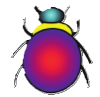
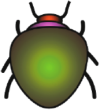
task1. module pygame

diff --git a/modules/pygame/task1/task1.py b/modules/pygame/task1/task1.py
@@ -1,29 +1,7 @@
 import pygame as pg
 from math import *
 import random
-
-
-class Player(pg.sprite.Sprite):
-    def __init__(self, x_pos=0, y_pos=0):
-        super().__init__()
-        self.image = pg.image.load("insect1.png")
-        self.x, self.y = x_pos, y_pos
-        self.bild = self.image
-
-    def rotate(self, degree):
-        self.bild = pg.transform.rotate(self.image, degree)
-
-    def move(self, distance, xx, yy):
-        self.x += xx
-        self.y += yy
-        distance -= 1
-        return distance
-
-    def step(self, xx, yy):
-        self.x += xx
-        self.y += yy
-
-
+from bplayer import *
 
 # setting initial values
 green = (0, 255, 0)
@@ -35,6 +13,7 @@ degree = 0
 # launching Pygame, creating a game field and character
 pg.init()
 pg.key.set_repeat(20, 20)
+pg.display.set_caption("Bug Game")
 window = pg.display.set_mode((x_max, y_max))
 figure = Player(x_max / 2 - 50, y_max / 2 - 50)
 
@@ -55,53 +34,27 @@ while running:
         # setting the mouse
         if event.type == pg.MOUSEBUTTONDOWN:
             (x_pos, y_pos) = pg.mouse.get_pos()
-            # x_dif = x_pos - figure.x - 50
-            # y_dif = y_pos - figure.y - 50
-            # distance = sqrt(x_dif * x_dif + y_dif * y_dif)
-            # degree = atan2(-y_dif, x_dif)
-            # degree = degrees(degree) - 90
-            # x_dif /= distance
-            # y_dif /= distance
-            # figure.rotate(degree)
+            if x_pos > figure.x and x_pos < figure.x + 100 \
+                and y_pos > figure.y and y_pos < figure.y + 100:
+                figure.destroy()
 
     # restriction of movement
     if figure.x < 0 or figure.x > x_max - 110:
         x_step = -x_step
     if figure.y < 0 or figure.y > y_max - 110:
         y_step = -y_step
+
     # determining the direction of movement
     degree = atan2(-y_step, x_step)
     degree = degrees(degree) - 90
     figure.rotate(degree)
-    # motion delay
-    figure.step(x_step, y_step)
-    pg.time.delay(10)
-
-        # setting the keys
-        # if event.type == pg.KEYDOWN:
-        #     if event.key == pg.K_LEFT:
-        #         direction = 1
-        #         if figure.x > 0:
-        #             figure.x -= 5
-        #     if event.key == pg.K_RIGHT:
-        #         direction = 3
-        #         if figure.x < x_max - 100:
-        #             figure.x += 5
-        #     if event.key == pg.K_UP:
-        #         direction = 0
-        #         if figure.y > 0:
-        #             figure.y -= 5
-        #     if event.key == pg.K_DOWN:
-        #         direction = 2
-        #         if figure.y < y_max - 100:
-        #             figure.y += 5
-        #     figure.rotate(direction * 90)
 
     # motion delay
-    # if distance > 5:
-    #     distance = figure.move(distance, x_dif, y_dif)
-    #     pg.time.delay(10)
-    # update sprite position
+    if not figure.is_killed:
+        figure.step(x_step, y_step)
+        pg.time.delay(5)
+
+    # sprite position in window (new)
     window.fill(green)
     window.blit(figure.bild, (figure.x, figure.y))
     pg.display.update()

diff --git a/modules/pygame/task1/bplayer.py b/modules/pygame/task1/bplayer.py
@@ -1,0 +1,28 @@
+import pygame as pg
+
+
+class Player(pg.sprite.Sprite):
+    def __init__(self, x_pos=0, y_pos=0):
+        super().__init__()
+        self.image = pg.image.load("insect1.png")
+        self.x, self.y = x_pos, y_pos
+        self.bild = self.image
+        self.is_killed = False
+
+    def rotate(self, degree):
+        self.bild = pg.transform.rotate(self.image, degree)
+
+    def move(self, distance, xx, yy):
+        self.x += xx
+        self.y += yy
+        distance -= 1
+        return distance
+
+    def step(self, xx, yy):
+        self.x += xx
+        self.y += yy
+
+    def destroy(self):
+        self.image = pg.image.load("insect2x.png")
+        self.bild = self.image
+        self.is_killed = True
